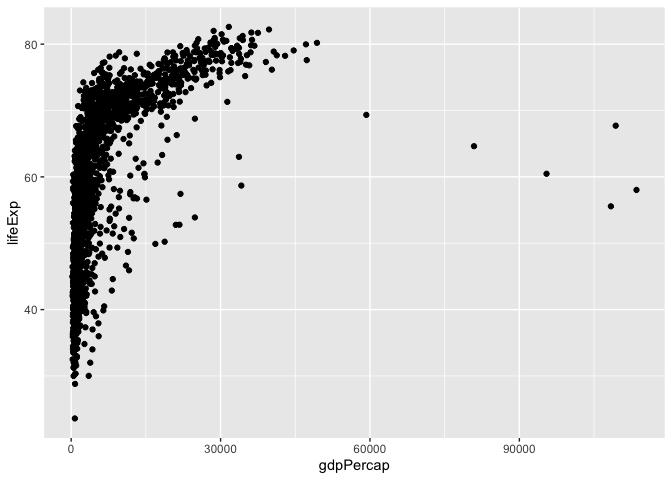
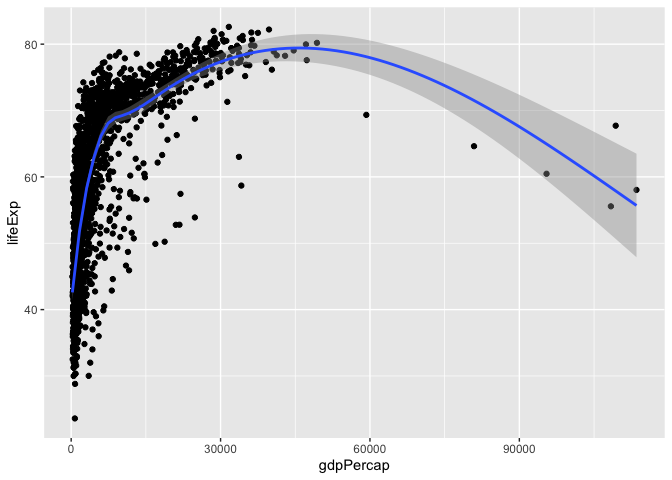
final edited assignment 4

Changed region(s): [[0.125, 0.0625, 0.9688, 0.5312], [0.0938, 0.4375, 0.125, 0.625]]

diff --git a/assignment_4.md b/assignment_4.md
@@ -77,21 +77,7 @@ kable(head(Theoph))
 dataset. Do not mannually list all the columns to include.**
 
 ``` r
-kable(head(Theoph %>% 
-  select(Subject, Wt)))
-```
-
-| Subject |   Wt |
-| :------ | ---: |
-| 1       | 79.6 |
-| 1       | 79.6 |
-| 1       | 79.6 |
-| 1       | 79.6 |
-| 1       | 79.6 |
-| 1       | 79.6 |
-
-``` r
- select(Theoph, contains('t',ignore.case = F)) %>%  # Q. this selects the upper case T why?
+ select(Theoph, contains('t',ignore.case = F)) %>%  # to select lower-case letter
   head() %>% 
   kable()
 ```
@@ -104,10 +90,6 @@ kable(head(Theoph %>%
 | 1       | 79.6 |
 | 1       | 79.6 |
 | 1       | 79.6 |
-
-``` r
-             # Hacky hor for this
-```
 
 **Rename the `Wt` column to `Weight` and `conc` column to
 `Concentration` in the `Theoph` dataset.**
@@ -304,7 +286,7 @@ summarize (mean_land_value = mean(Land.Value)) %>%
   geom_line()
 ```
 
-![](assignment_4_files/figure-gfm/unnamed-chunk-14-1.png)<!-- -->
+![](assignment_4_files/figure-gfm/unnamed-chunk-13-1.png)<!-- -->
 
 **Exercise 3. Life expectancy and GDP per capita 1952-2007**
 
@@ -334,7 +316,7 @@ ggplot(mapping =aes(x=gdpPercap, y = lifeExp))+
 Scatter_pl
 ```
 
-![](assignment_4_files/figure-gfm/unnamed-chunk-16-1.png)<!-- -->
+![](assignment_4_files/figure-gfm/unnamed-chunk-15-1.png)<!-- -->
 
 **3.2 Add a smoothing line to the previous plot.**
 
@@ -343,7 +325,7 @@ Scatter_pl +
 geom_smooth()
 ```
 
-![](assignment_4_files/figure-gfm/unnamed-chunk-17-1.png)<!-- -->
+![](assignment_4_files/figure-gfm/unnamed-chunk-16-1.png)<!-- -->
 
 **3.3 Show each continent in a different color, and fit a separate
 smoothing line to each continent to identify differences in this
@@ -355,7 +337,7 @@ Scatter_pl +
   geom_smooth(aes(color = continent), se = FALSE) 
 ```
 
-![](assignment_4_files/figure-gfm/unnamed-chunk-18-1.png)<!-- -->
+![](assignment_4_files/figure-gfm/unnamed-chunk-17-1.png)<!-- -->
 
 **Use faceting to solve the problem. Show the confidence intervals in
 this plot**
@@ -367,7 +349,7 @@ Scatter_pl +
   facet_wrap(~continent)
 ```
 
-![](assignment_4_files/figure-gfm/unnamed-chunk-19-1.png)<!-- -->
+![](assignment_4_files/figure-gfm/unnamed-chunk-18-1.png)<!-- -->
 
 **3.5 Explore the trend in life expectancy through time in each
 continent. Color by continent.**
@@ -380,7 +362,7 @@ line_plotLexp<-gapminder %>%
 line_plotLexp # Hacky hor for this
 ```
 
-![](assignment_4_files/figure-gfm/unnamed-chunk-20-1.png)<!-- -->
+![](assignment_4_files/figure-gfm/unnamed-chunk-19-1.png)<!-- -->
 
 **3.6 From the previous plot, we see some abnormal trends in Asia and
 Africa, where the life expectancy in some countries sharply dropped at
@@ -418,10 +400,15 @@ graph_asia<- Asia_only %>%
 graph_asia # Hacky hor for this
 ```
 
-![](assignment_4_files/figure-gfm/unnamed-chunk-22-1.png)<!-- -->
+![](assignment_4_files/figure-gfm/unnamed-chunk-21-1.png)<!-- -->
 
-Answer: Cambodia and China had drastic drop in life expectancy. The
-reason could be war or epidemic.I am not sure about it.
+Answer: Cambodia and China had drastic drop in life expectancy. In
+Cambodia humanitarian crisis has happened from 1969 to 1993 that caused
+loss of life and displacement. The crises were Civil War frin 1970 to
+1975 and Bombing by US from 1969 to 1973 as a strategy to win the war
+with Vietnam. (Wikipedia). The reason behiand the drastic drop down of
+life expectancy in china around 1965 could be because of the Chinese
+involvement to support Pakistan during the war wit India.
 
 **3.8 Explore the trend in per capit GDP through time in each
 continent.**
@@ -434,4 +421,4 @@ percapit_plot<-gapminder %>%
 percapit_plot #hacky hour for this
 ```
 
-![](assignment_4_files/figure-gfm/unnamed-chunk-23-1.png)<!-- -->
+![](assignment_4_files/figure-gfm/unnamed-chunk-22-1.png)<!-- -->
